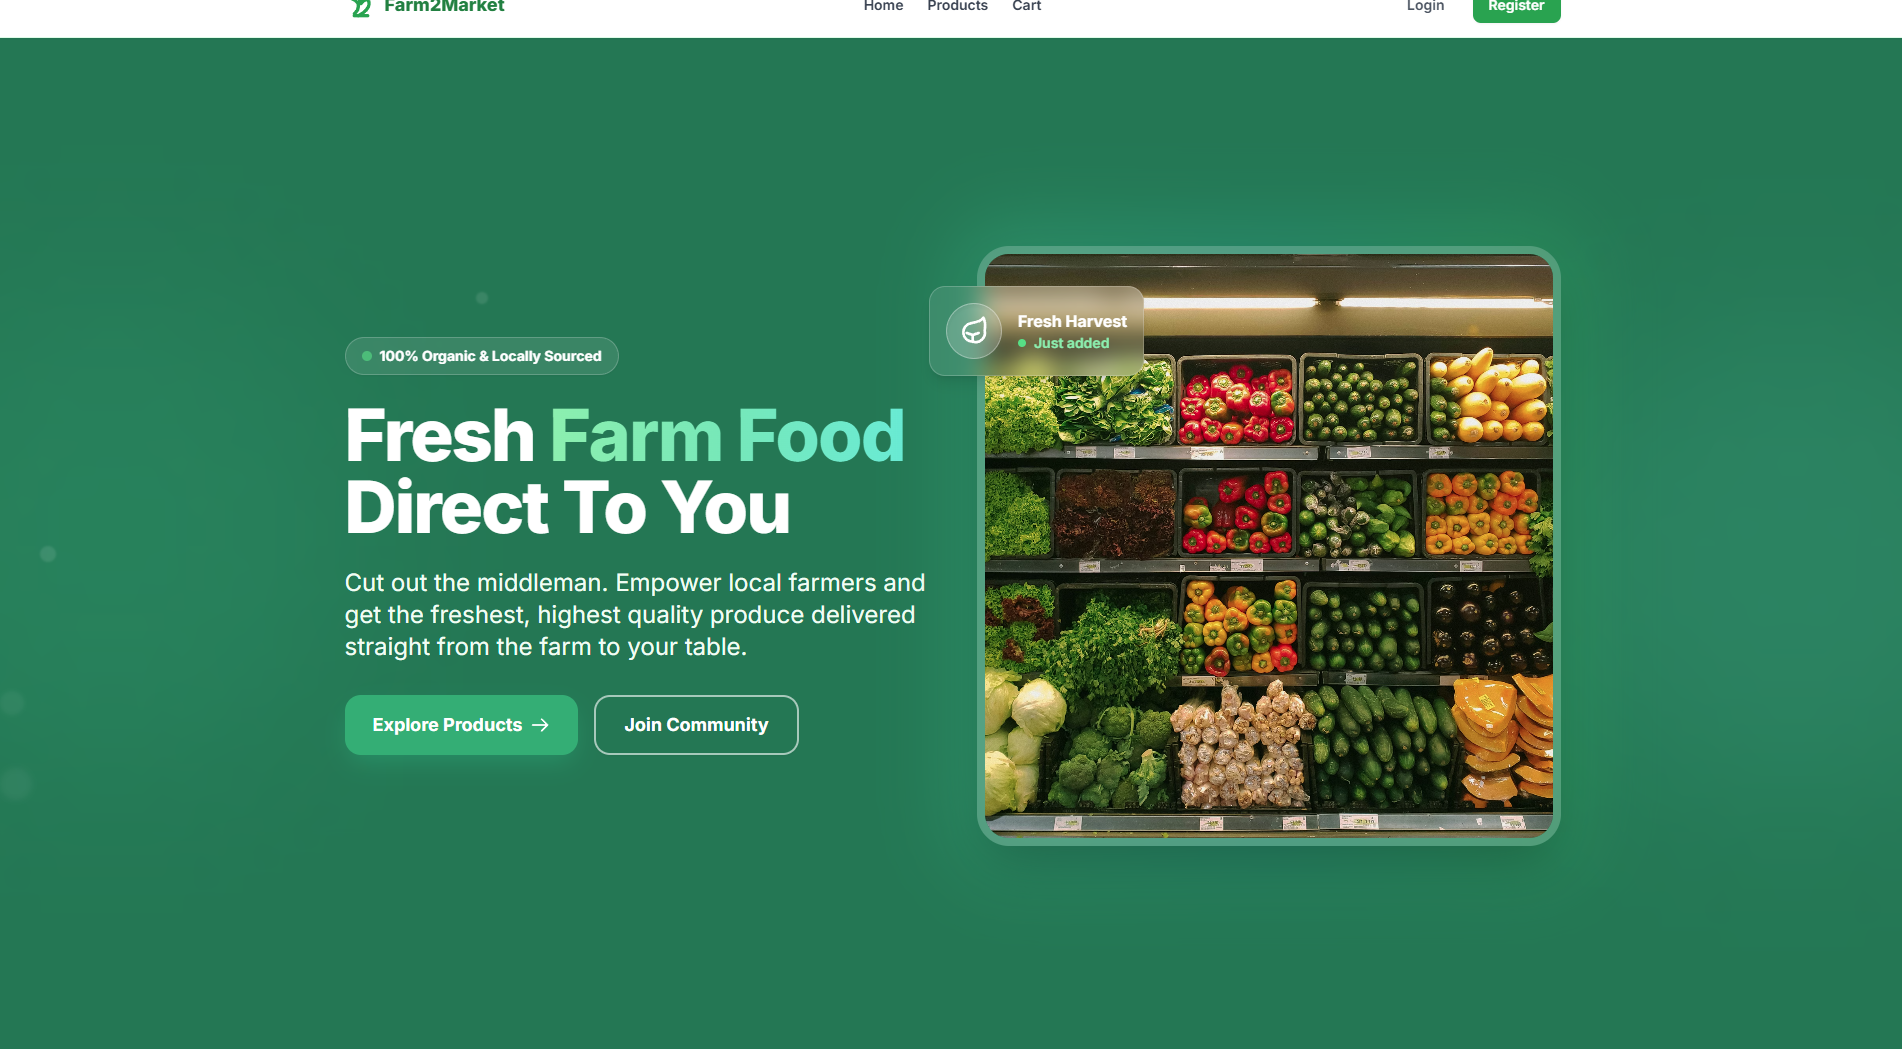
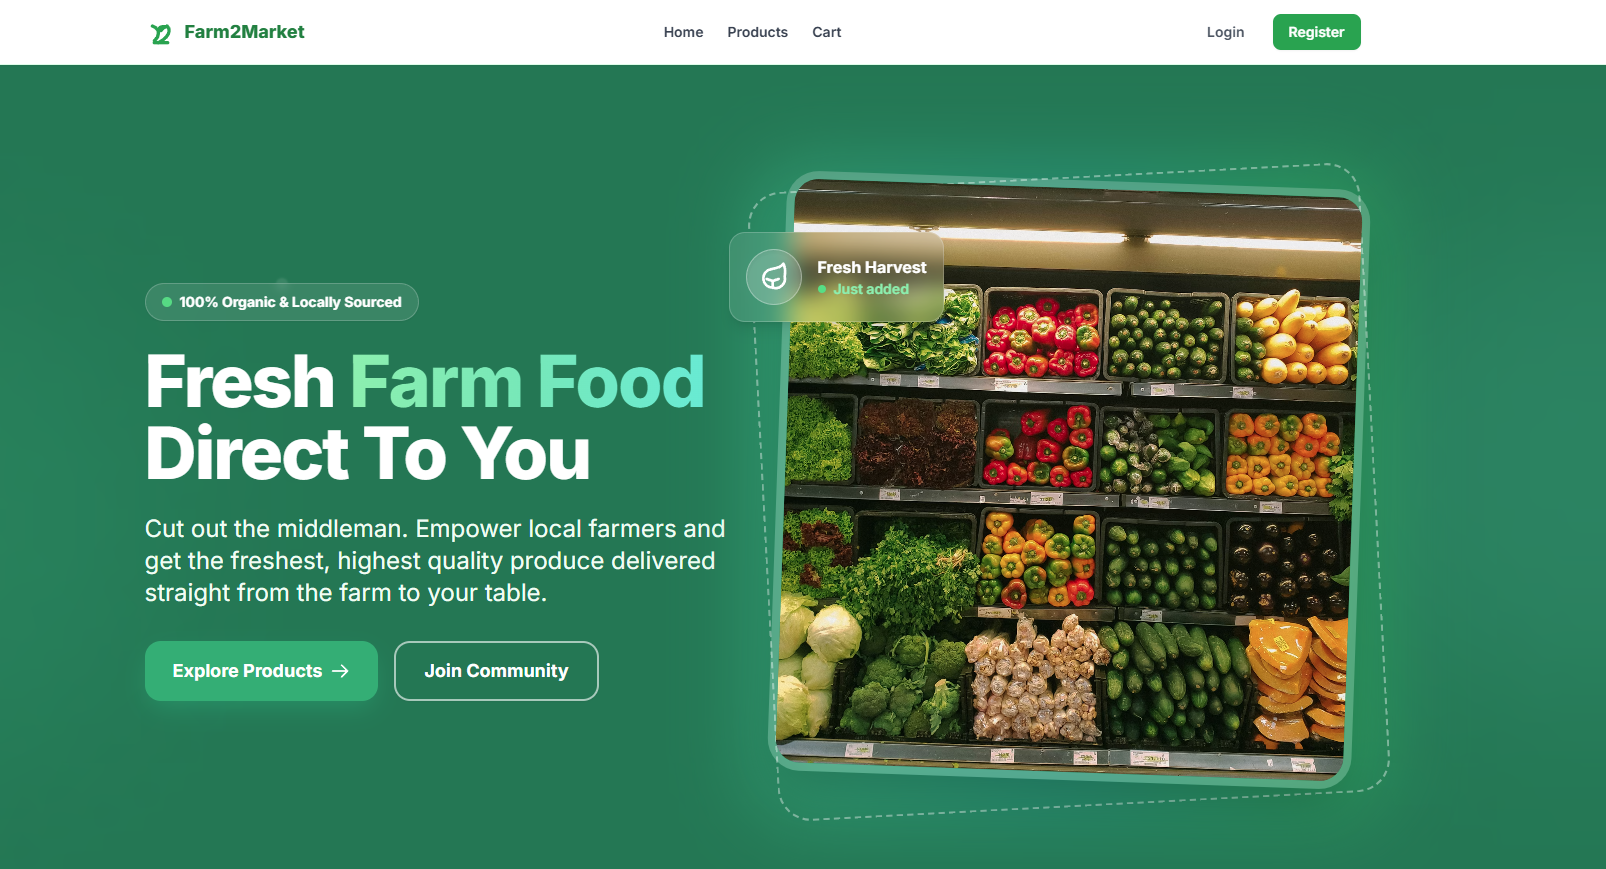
refactor project card

diff --git a/components/Projects/ProjectCard.tsx b/components/Projects/ProjectCard.tsx
@@ -5,7 +5,7 @@ import Link from 'next/link'
 import { motion } from 'framer-motion'
 import MotionDiv from '../MotionDiv'
 import { Project } from '@/data/portfolioDataTypes'
-import { Github, ExternalLink, ChevronRight, Code2 } from 'lucide-react'
+import { Github, ArrowUpRight, ChevronRight } from 'lucide-react'
 
 interface ProjectCardProps {
   project: Project
@@ -13,113 +13,138 @@ interface ProjectCardProps {
 }
 
 /**
- * Compact vertical preview card — used on main page 3-col grid.
- * 3D tilt removed (was running 6× useSpring + useTransform per card).
- * Replaced with a simple CSS lift + border glow on hover.
+ * Horizontal two-column card.
+ * Even index  → content LEFT  | image RIGHT
+ * Odd  index  → image  LEFT   | content RIGHT
+ * Mobile: always image on top, content below.
  */
 export default function ProjectCard({ project, index }: ProjectCardProps) {
+  const isReversed = index % 2 === 1
+
   return (
     <MotionDiv
-      className="relative h-full flex flex-col rounded-2xl border border-slate-600/70 bg-[#030712]/90 backdrop-blur-xl overflow-hidden group shadow-xl transition-all duration-300 hover:-translate-y-1.5 hover:border-accent/30"
-      delay={(index % 6) * 0.05}
+      className="group relative w-full"
+      delay={(index % 4) * 0.08}
     >
-      {/* Decorative Background Glow */}
-      <div className="absolute -top-16 -right-16 w-32 h-32 bg-accent/5 rounded-full blur-[60px] group-hover:bg-accent/10 transition-colors duration-500" />
-      <div className="absolute -bottom-16 -left-16 w-32 h-32 bg-accent-secondary/5 rounded-full blur-[60px] group-hover:bg-accent-secondary/10 transition-colors duration-500" />
-
-      {/* Image Container */}
-      {project.imageUrl && (
-        <div className="relative p-3 pb-0">
-          <div className="relative h-32 sm:h-36 rounded-xl overflow-hidden shadow-inner">
-            <img
-              src={project.imageUrl}
-              alt={project.title}
-              className="w-full h-full object-cover transition-transform duration-500 group-hover:scale-105 opacity-100"
-              loading="lazy"
-            />
-            <div className="absolute inset-0 bg-gradient-to-t from-slate-950/80 via-transparent to-transparent z-10 opacity-0 group-hover:opacity-100 transition-opacity duration-500" />
-
-            {/* Status Badge */}
-            {project.status && (
-              <div className="absolute top-2 right-2 z-20 px-2 py-0.5 rounded-full bg-slate-950/60 backdrop-blur-md border border-white/10 text-[9px] font-bold text-accent uppercase tracking-wider">
-                {project.status}
-              </div>
-            )}
-          </div>
-        </div>
+      {/* Subtle separator line above each card (except first) */}
+      {index !== 0 && (
+        <div className="absolute -top-5 lg:-top-7 left-0 right-0 h-px bg-gradient-to-r from-transparent via-slate-700/80 to-transparent" />
       )}
 
-      {/* Body Content */}
-      <div className="relative z-20 flex flex-col flex-1 p-4 sm:p-5">
-        <div className="flex items-start justify-between gap-3 mb-2">
-          <div className="flex flex-col gap-0.5">
-            <span className="text-[9px] font-bold text-accent-secondary uppercase tracking-[0.2em] opacity-80">
-              # {String(index + 1).padStart(2, '0')}
-            </span>
-            <h3 className="text-base sm:text-lg font-black text-white leading-tight group-hover:text-transparent group-hover:bg-clip-text group-hover:bg-gradient-to-r group-hover:from-accent group-hover:via-accent-secondary group-hover:to-accent-glow transition-all duration-300">
-              {project.title}
-            </h3>
-          </div>
-        </div>
+      <div
+        className={`flex flex-col md:flex-row ${
+          isReversed
+            ? 'md:flex-row-reverse items-center gap-12 lg:gap-28'
+            : 'items-start gap-4 lg:gap-4'
+        }`}
+      >
+        {/* ── Content Half ── */}
+        <div className="flex flex-col flex-1 min-w-0">
 
-        <p className="text-secondary/100 text-xs leading-relaxed mb-4 line-clamp-2">
-          {project.shortDescription || project.description}
-        </p>
-
-        {/* Tech Stack - Pill Style */}
-        <div className="flex flex-wrap gap-1.5 mb-4">
-          <span className="text-[9px] font-bold text-accent-secondary/60 uppercase tracking-wider w-full mb-1.5 flex items-center gap-1.5">
-            <Code2 className="w-3 h-3 text-accent" />
-            <span className='text-accent'>Built With</span>
+          {/* Index label */}
+          <span className="text-[11px] font-bold text-accent uppercase tracking-[0.2em] mb-3 opacity-70">
+            Project #{String(index + 1).padStart(2, '0')}
           </span>
-          {project.tools.map((tool) => (
-            <span
-              key={tool}
-              className="text-[10px] font-bold px-2 py-0.5 bg-slate-800/30 text-slate-300 rounded-md border border-slate-700/50 group-hover:border-accent/30 transition-all duration-300"
-            >
-              {tool}
-            </span>
-          ))}
-        </div>
 
-        {/* Footer Actions */}
-        <div className="relative z-30 mt-auto pt-3 flex items-center justify-between border-t border-slate-800/40">
-          <div className="flex items-center gap-2">
+          {/* Title */}
+          <h3 className="text-2xl sm:text-3xl font-extrabold text-white leading-tight mb-4 group-hover:text-transparent group-hover:bg-clip-text group-hover:bg-gradient-to-r group-hover:from-accent group-hover:via-accent-secondary group-hover:to-accent-glow transition-all duration-300">
+            {project.title}
+          </h3>
+
+          {/* Tech Tags */}
+          <div className="flex flex-wrap gap-2 mb-5">
+            {project.tools.map((tool) => (
+              <span
+                key={tool}
+                className="text-[11px] font-semibold px-3 py-1 bg-slate-800/40 text-slate-300 rounded-full border border-slate-700/60 group-hover:border-accent/30 transition-colors duration-300"
+              >
+                {tool}
+              </span>
+            ))}
+          </div>
+
+          {/* Description */}
+          <p className="text-secondary text-sm sm:text-[15px] leading-relaxed mb-8">
+            {project.shortDescription || project.description}
+          </p>
+
+          {/* Action Buttons */}
+          <div className="flex items-center gap-3 flex-wrap">
             {project.githubUrl && (
               <motion.a
                 href={project.githubUrl}
                 target="_blank"
                 rel="noopener noreferrer"
-                className="p-2 rounded-lg bg-slate-800/50 border border-slate-700/50 text-secondary hover:text-white hover:border-accent/50 hover:bg-accent/5 transition-all duration-300"
+                className="flex items-center gap-2 px-4 py-2 rounded-lg bg-slate-800/50 border border-slate-700/60 text-slate-300 text-sm font-semibold hover:text-white hover:border-accent/50 hover:bg-accent/10 hover:shadow-md hover:shadow-accent/10 transition-all duration-300"
                 whileHover={{ y: -2 }}
-                whileTap={{ scale: 0.95 }}
+                whileTap={{ scale: 0.97 }}
               >
-                <Github className="w-4 h-4" />
+                <Github className="w-3.5 h-3.5" />
+                Github
               </motion.a>
             )}
+
             {project.liveUrl && (
               <motion.a
                 href={project.liveUrl}
                 target="_blank"
                 rel="noopener noreferrer"
-                className="p-2 rounded-lg bg-slate-800/50 border border-slate-700/50 text-secondary hover:text-white hover:border-accent/50 hover:bg-accent/5 transition-all duration-300"
+                className="flex items-center gap-2 px-4 py-2 rounded-lg bg-slate-800/50 border border-slate-700/60 text-slate-300 text-sm font-semibold hover:text-white hover:border-emerald-500/50 hover:bg-emerald-500/10 hover:shadow-md hover:shadow-emerald-500/10 transition-all duration-300"
                 whileHover={{ y: -2 }}
-                whileTap={{ scale: 0.95 }}
+                whileTap={{ scale: 0.97 }}
               >
-                <ExternalLink className="w-4 h-4" />
+                <ArrowUpRight className="w-3.5 h-3.5" />
+                Live
               </motion.a>
             )}
-          </div>
 
-          <Link
-            href={`/projects#${project.id}`}
-            className="flex items-center gap-1.5 text-[10px] font-black text-white uppercase tracking-wider group/link hover:text-accent transition-all duration-300 py-1"
-          >
-            <span className="relative z-10">Details</span>
-            <div className="p-1 rounded-md bg-slate-800/50 group-hover/link:bg-accent/10 transition-colors duration-300">
-              <ChevronRight className="w-3 h-3 group-hover/link:translate-x-0.5 transition-transform duration-300" />
-            </div>
-          </Link>
+            <Link
+              href={`/projects#${project.id}`}
+              className="flex items-center gap-1.5 text-sm font-semibold text-accent/70 hover:text-accent underline-offset-4 hover:underline transition-all duration-300 group/details"
+            >
+              Details
+              <ChevronRight className="w-4 h-4 text-accent/40 group-hover/details:text-accent group-hover/details:translate-x-0.5 transition-transform duration-300" />
+            </Link>
+          </div>
+        </div>
+
+        {/* ── Image Half ── */}
+        <div className="w-full md:w-[42%] flex-shrink-0">
+          <div className="relative rounded-2xl overflow-hidden aspect-video bg-slate-800/40 shadow-2xl ring-1 ring-white/5 group-hover:ring-accent/20 transition-all duration-500">
+            {project.imageUrl ? (
+              <>
+                <img
+                  src={project.imageUrl}
+                  alt={project.title}
+                  className="w-full h-full object-cover transition-transform duration-700 group-hover:scale-105"
+                  loading="lazy"
+                />
+                {/* Subtle overlay on hover */}
+                <div className="absolute inset-0 bg-gradient-to-t from-slate-950/80 via-slate-950/40 to-slate-950/20 opacity-75 group-hover:opacity-95 transition-opacity duration-500" />
+              </>
+            ) : (
+              /* Fallback placeholder when no image */
+              <div className="w-full h-full flex items-center justify-center bg-slate-800/60">
+                <Github className="w-12 h-12 text-slate-600" />
+              </div>
+            )}
+
+            {/* Status Badge */}
+            {project.status && (
+              <div
+                className={`absolute top-3 right-3 z-10 px-2.5 py-1 rounded-full text-[10px] font-bold uppercase tracking-wider backdrop-blur-md border ${
+                  project.status === 'Live'
+                    ? 'bg-emerald-950/70 border-emerald-500/40 text-emerald-400'
+                    : 'bg-slate-950/60 border-white/10 text-accent'
+                }`}
+              >
+                {project.status === 'Live' && (
+                  <span className="inline-block w-1.5 h-1.5 rounded-full bg-emerald-400 mr-1.5 animate-pulse align-middle" />
+                )}
+                {project.status}
+              </div>
+            )}
+          </div>
         </div>
       </div>
     </MotionDiv>

diff --git a/data/portfolioData.ts b/data/portfolioData.ts
@@ -66,7 +66,7 @@ export const educationData = [
     url: 'https://daffodilvarsity.edu.bd',
     gpa: 'CGPA: 3.91',
     graduation: 'Jan 2023 - Dec 2026',
-    description: 'Received Result-Based Scholarship',
+    description: '35% Result-Based Waiver Recipient',
   },
   {
     degree: 'HSC in Science',
@@ -93,23 +93,23 @@ export const educationData = [
 // - Simple Icons CDN:  https://cdn.simpleicons.org/<slug>[/<color>]
 // - Devicons CDN:      https://cdn.jsdelivr.net/gh/devicons/devicon/icons/<name>/<file>.svg
 export const skillsData: Skill[] = [
-  
+
   // Backend
   { name: 'Django', category: 'Backend', logo: 'https://cdn.simpleicons.org/django/989898' },
   { name: 'Django REST Framework', category: 'Backend', logo: 'https://www.django-rest-framework.org/img/logo.png' },
-  
+
   // Frontend
   { name: 'React', category: 'Frontend', logo: 'https://cdn.simpleicons.org/react' },
   { name: 'Tailwind CSS', category: 'Frontend', logo: 'https://cdn.simpleicons.org/tailwindcss' },
   { name: 'Bootstrap', category: 'Frontend', logo: 'https://cdn.simpleicons.org/bootstrap' },
-  
-  
+
+
   // Database
   { name: 'PostgreSQL', category: 'Database', logo: 'https://cdn.jsdelivr.net/gh/devicons/devicon/icons/postgresql/postgresql-original.svg' },
   { name: 'MySQL', category: 'Database', logo: 'https://cdn.jsdelivr.net/gh/devicons/devicon/icons/mysql/mysql-original.svg' },
   { name: 'SQLite', category: 'Database', logo: 'https://cdn.simpleicons.org/sqlite/989898' },
   { name: 'Supabase', category: 'Database', logo: 'https://cdn.simpleicons.org/supabase' },
-  
+
   // Programming Languages
   { name: 'Python', category: 'Programming Languages', logo: 'https://cdn.jsdelivr.net/gh/devicons/devicon/icons/python/python-original.svg' },
   { name: 'C', category: 'Programming Languages', logo: 'https://cdn.jsdelivr.net/gh/devicons/devicon/icons/c/c-original.svg' },
@@ -139,25 +139,7 @@ export const skillsData: Skill[] = [
 
 // Projects Data
 export const projectsData: Project[] = [
-  {
-    id: 'shopnest',
-    title: 'ShopNest',
-    shortDescription: 'A full-featured single-vendor e-commerce platform.',
-    description: 'A full-featured, modern single-vendor e-commerce platform built with Django. ShopNest provides a complete online shopping experience with product management, shopping cart, secure payment integration, and user authentication.',
-    tools: ['Django', 'SQLite', 'Tailwind CSS', 'SSLCommerz Api'],
-    features: [
-      'User authentication & authorization',
-      'Product catalog with search & filtering',
-      'Shopping cart & order management',
-      'SSLCommerz payment gateway integration',
-    ],
-    githubUrl: 'https://github.com/nabil0203/ShopNest',
-    liveUrl: 'https://shopnest-4thm.onrender.com/',
-    imageUrl: '/images/projects/shopnest.png',
-    featured: true,
-    year: '2025',
-    status: 'Live',
-  },
+
   {
     id: 'farm2market',
     title: 'Farm2Market',
@@ -173,6 +155,25 @@ export const projectsData: Project[] = [
     githubUrl: 'https://github.com/nabil0203/Farm2Market',
     liveUrl: 'https://farm2market-dtll.onrender.com/',
     imageUrl: '/images/projects/farm2market.png',
+    featured: true,
+    year: '2025',
+    status: 'Live',
+  },
+  {
+    id: 'shopnest',
+    title: 'ShopNest',
+    shortDescription: 'A full-featured single-vendor e-commerce platform.',
+    description: 'A full-featured, modern single-vendor e-commerce platform built with Django. ShopNest provides a complete online shopping experience with product management, shopping cart, secure payment integration, and user authentication.',
+    tools: ['Django', 'SQLite', 'Tailwind CSS', 'SSLCommerz Api'],
+    features: [
+      'User authentication & authorization',
+      'Product catalog with search & filtering',
+      'Shopping cart & order management',
+      'SSLCommerz payment gateway integration',
+    ],
+    githubUrl: 'https://github.com/nabil0203/ShopNest',
+    liveUrl: 'https://shopnest-4thm.onrender.com/',
+    imageUrl: '/images/projects/shopnest.png',
     featured: true,
     year: '2025',
     status: 'Live',

diff --git a/components/Projects/ProjectsSection.tsx b/components/Projects/ProjectsSection.tsx
@@ -9,7 +9,7 @@ import SectionDivider from '../SectionDivider'
 import ProjectCard from './ProjectCard'
 import { projectsData } from '@/data/portfolioData'
 
-const PREVIEW_COUNT = 6
+const PREVIEW_COUNT = 4
 const previewProjects = projectsData.slice(0, PREVIEW_COUNT)
 
 export default function ProjectsSection() {
@@ -38,7 +38,7 @@ export default function ProjectsSection() {
       </div>
 
       <div className="section-content relative z-10">
-        <div className="relative max-w-7xl mx-auto px-5 sm:px-8">
+        <div className="relative max-w-5xl mx-auto px-5 sm:px-8">
 
           {/* Section Header */}
           <MotionDiv className="mb-14 text-center">
@@ -49,8 +49,8 @@ export default function ProjectsSection() {
             <SectionDivider />
           </MotionDiv>
 
-          {/* Project grid — always shows first 6, compact preview cards */}
-          <div className="grid sm:grid-cols-2 lg:grid-cols-3 gap-5 lg:gap-7">
+          {/* Project list — stacked horizontal cards */}
+          <div className="flex flex-col gap-16 lg:gap-24">
             {previewProjects.map((project, index) => (
               <ProjectCard
                 key={`${project.id}-${index}`}
@@ -62,25 +62,23 @@ export default function ProjectsSection() {
 
           {/* Link to full projects page */}
           {hasMore && (
-            <MotionDiv className="mt-12 flex flex-col items-center gap-4" delay={0.2}>
-              <Link href="/projects" aria-label={`View all ${projectsData.length} projects`} className="group relative flex justify-center">
-                {/* Gentle, slow pulse behind the button */}
-                <div 
-                  className="absolute -inset-0.5 bg-gradient-to-r from-accent to-accent-glow rounded-full opacity-20 blur-[2px] group-hover:opacity-40 animate-pulse transition-opacity duration-300"
-                  style={{ animationDuration: '4s' }}
-                />
-                
+            <MotionDiv className="mt-20 flex flex-col items-center gap-3" delay={0.2}>
+              <Link
+                href="/projects"
+                aria-label={`View all ${projectsData.length} projects`}
+                className="group relative inline-flex items-center"
+              >
                 <motion.span
-                  className="relative flex items-center gap-3 px-6 py-2.5 rounded-full text-sm font-medium text-white border border-accent/30 bg-black/60 backdrop-blur-md hover:border-accent/60 transition-colors duration-300 cursor-pointer shadow-lg"
-                  whileHover={{ scale: 1.02 }}
-                  whileTap={{ scale: 0.98 }}
+                  className="flex items-center gap-3 px-8 py-3 rounded-lg text-sm font-bold text-white bg-accent hover:bg-accent/85 shadow-lg shadow-accent/25 hover:shadow-accent/40 transition-all duration-300 cursor-pointer"
+                  whileHover={{ y: -2, scale: 1.02 }}
+                  whileTap={{ scale: 0.97 }}
                 >
                   <span className="tracking-wide">View All Projects</span>
-                  <ArrowRight className="w-4 h-4 text-white/70 group-hover:text-white group-hover:translate-x-1 transition-all duration-300 ml-0.5" />
+                  <ArrowRight className="w-4 h-4 group-hover:translate-x-1 transition-transform duration-300" />
                 </motion.span>
               </Link>
-              
-              <p className="text-[11px] text-secondary/50 font-mono uppercase tracking-widest mt-1">
+
+              <p className="text-[11px] text-secondary/40 font-mono uppercase tracking-widest">
                 Showing {PREVIEW_COUNT} of {projectsData.length}
               </p>
             </MotionDiv>
